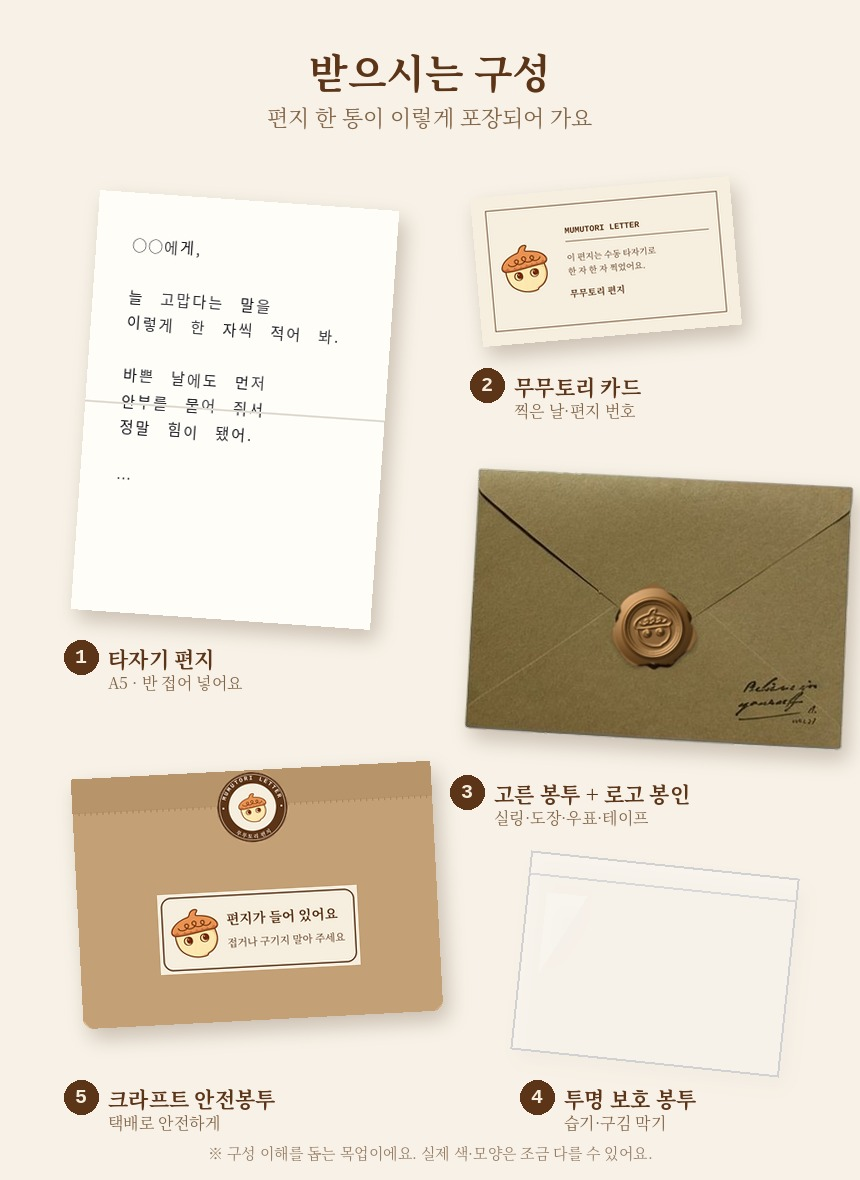
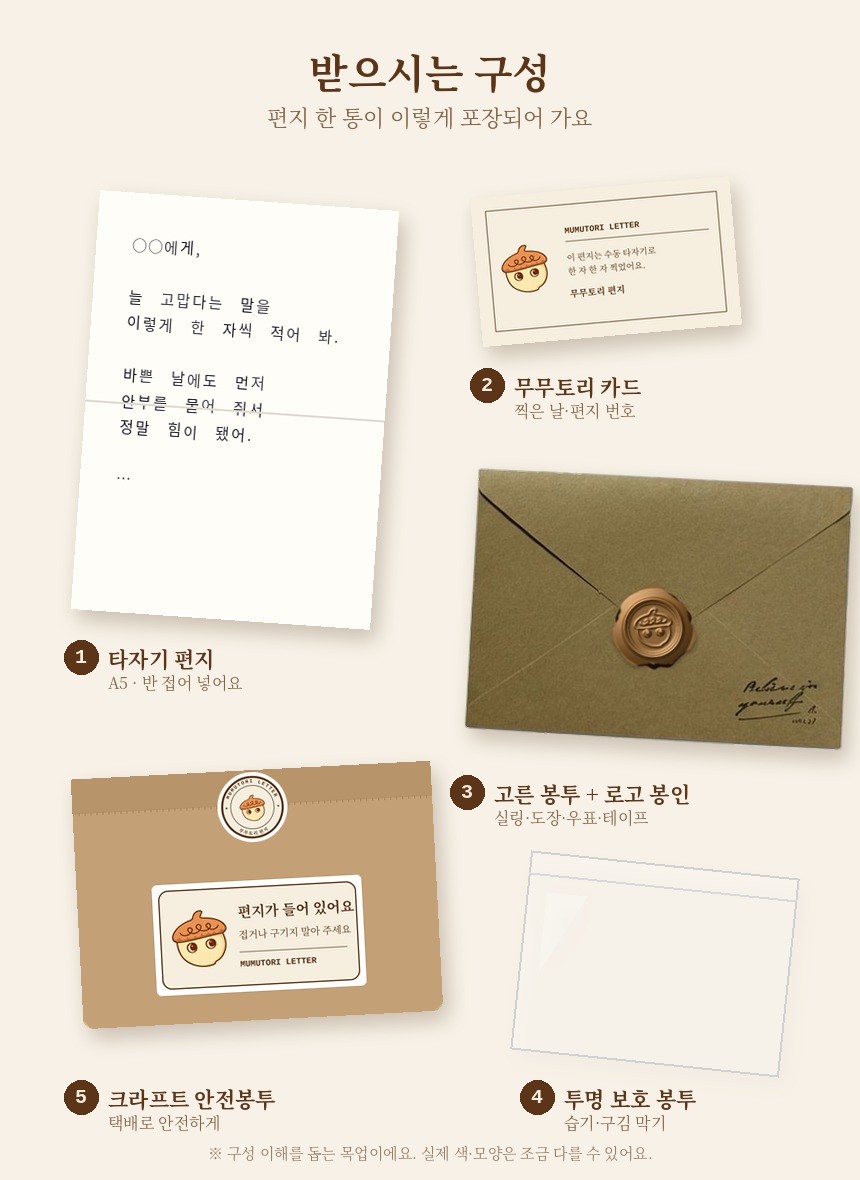
레터 허브 '패키지·구매' 탭 + 봉투 목업 새 그림(에어메일 우표·무늬 원형 라벨·안개꽃)
- index.html: data-s=kit 탭(받으시는 구성·봉투 4종·안개꽃·마끈·로고 제작물·살 것(정리 중)·정할 것), 가격 없음
- mall/img/letter: 에어메일·무늬 목업 교체, 받으시는 구성 새 판, 안개꽃 목업 2장
- img/kit: 로고 제작물 미리보기·A4 배치 3장

Changed region(s): [[0.1512, 0.6407, 0.4233, 0.8542]]

diff --git a/index.html b/index.html
@@ -299,6 +299,21 @@ td.n{font-family:var(--type);color:var(--brand);width:40px}
 }
 .pvopen{display:none;gap:8px;flex-wrap:wrap;justify-content:center}
 @media (prefers-reduced-motion:reduce){.side{transition:none}}
+/* 패키지·구매 탭 (2026-10-20 letter-hub-kit) — 사진 크게, 글 짧게, 휴대폰도 2열 */
+.kit img{display:block;width:100%;height:auto;border-radius:10px;background:#fff}
+.kit .hero2{display:grid;grid-template-columns:minmax(0,1.1fr) minmax(0,1fr);gap:20px;align-items:start}
+.kit ol.layers{margin:0;padding-left:20px;display:flex;flex-direction:column;gap:6px}
+.kit .g2{display:grid;grid-template-columns:repeat(2,minmax(0,1fr));gap:14px}
+.kit .g3{display:grid;grid-template-columns:repeat(3,minmax(0,1fr));gap:14px}
+.kit figure{margin:0;display:flex;flex-direction:column;gap:8px}
+.kit figcaption b{display:block;font-family:var(--type)}
+.kit .chips{display:flex;flex-wrap:wrap;gap:6px}
+.kit .chip{font-size:12px;padding:4px 9px;border-radius:999px;border:1px solid var(--line);background:var(--paper);color:var(--ink-2)}
+.kit .chip.ok{background:var(--cream);color:var(--brand);border-color:transparent}
+.kit table{width:100%;border-collapse:collapse;font-size:13.5px}
+.kit th,.kit td{text-align:left;padding:9px 8px;border-bottom:1px solid var(--line);vertical-align:top}
+.kit th{white-space:nowrap}
+@media (max-width:760px){.kit .hero2{grid-template-columns:1fr}.kit .g3{grid-template-columns:repeat(2,minmax(0,1fr))}.kit .g2,.kit .g3{gap:10px}.kit figcaption{font-size:12.5px}}
 </style>
 </head>
 <body>
@@ -408,6 +423,60 @@ td.n{font-family:var(--type);color:var(--brand);width:40px}
             <span class="small faint" id="pvNote">초안 기준 화면이에요.</span>
           </div>
         </div>
+      </section>
+
+      <!-- 패키지·구매 (2026-10-20 총괄 letter-hub-kit-20261020-1820 · 사장님 18:08 "기존 프로젝트 페이지에 업데이트") -->
+      <section class="sec kit" data-s="kit" data-name="패키지·구매" hidden>
+        <div class="shead"><span class="eyebrow">PACKAGE · BUY</span><h2>편지 한 통의 포장과 살 것</h2>
+          <p class="lead">고객이 받는 구성, 봉투 네 가지, 로고 제작물, 살 것을 한곳에 모았다. 사진은 이해를 돕는 목업이다. 가격·재료비는 이 공개 페이지에 쓰지 않고 볼트 문서에만 둔다.</p></div>
+
+        <div class="shead"><span class="eyebrow">01</span><h2>받으시는 구성</h2></div>
+        <div class="hero2">
+          <img src="mall/img/letter/letter_kit_overview.jpg" alt="받으시는 구성 목업: 타자기 편지, 무무토리 카드, 고른 봉투와 로고 봉인, 투명 보호 봉투, 크라프트 안전봉투" loading="lazy">
+          <div class="panel"><h3>바깥에서 안으로</h3>
+            <ol class="layers"><li>크라프트 안전봉투(택배로 안전하게)</li><li>투명 보호 봉투(습기·구김 막기)</li><li>고른 봉투 + 로고 봉인</li><li>무무토리 카드(찍은 날·편지 번호)</li><li>타자기 편지(A5, 반 접어 넣음)</li></ol>
+            <p class="note">크라프트·아이보리 봉투에는 마끈 리본과 안개꽃 한 줄기를 더한다(10/20 기본 포함 결정).</p></div>
+        </div>
+
+        <div class="shead"><span class="eyebrow">02</span><h2>봉투 네 가지</h2></div>
+        <div class="g2">
+          <figure><img src="mall/img/letter/mock_kraft_logo_seal.jpg" alt="크라프트 봉투에 도토리 실링 목업" loading="lazy"><figcaption><b>크라프트 · 실링왁스</b><span class="chips"><span class="chip">로고 실링 도장</span><span class="chip">왁스 비즈</span><span class="chip ok">마끈·안개꽃</span></span></figcaption></figure>
+          <figure><img src="mall/img/letter/mock_ivory_logo_stamp.jpg" alt="아이보리 봉투에 소인 도장 목업" loading="lazy"><figcaption><b>아이보리 · 도토리 도장</b><span class="chips"><span class="chip">소인 스탬프</span><span class="chip">스탬프 잉크</span><span class="chip ok">마끈·안개꽃</span></span></figcaption></figure>
+          <figure><img src="mall/img/letter/mock_airmail_postage.jpg" alt="에어메일 봉투에 무무토리 우표와 소인 목업" loading="lazy"><figcaption><b>에어메일</b><span class="chips"><span class="chip">우표 스티커(03)</span><span class="chip">소인 스탬프</span></span></figcaption></figure>
+          <figure><img src="mall/img/letter/mock_pattern_tape.jpg" alt="무늬 테이프와 원형 봉인 라벨 목업" loading="lazy"><figcaption><b>무무토리 무늬</b><span class="chips"><span class="chip">원형 봉인 스티커(04)</span><span class="chip">무늬 테이프</span></span></figcaption></figure>
+        </div>
+
+        <div class="shead"><span class="eyebrow">03</span><h2>안개꽃 · 마끈</h2><p class="lead">크라프트와 아이보리 봉투에 기본으로 더한다.</p></div>
+        <div class="g2">
+          <figure><img src="mall/img/letter/mock_kraft_flower.jpg" alt="크라프트 봉투에 마끈과 안개꽃 목업" loading="lazy"><figcaption><b>크라프트</b></figcaption></figure>
+          <figure><img src="mall/img/letter/mock_ivory_flower.jpg" alt="아이보리 봉투에 마끈과 안개꽃 목업" loading="lazy"><figcaption><b>아이보리</b></figcaption></figure>
+        </div>
+
+        <div class="shead"><span class="eyebrow">04</span><h2>로고 제작물</h2></div>
+        <img src="img/kit/kit_logo_items.jpg" alt="로고 제작물 미리보기: 소인 스탬프, 실링 도장, 우표 스티커, 원형 봉인 스티커, 무늬 테이프" loading="lazy">
+        <div class="tbl"><table><thead><tr><th>파일</th><th>무엇</th><th>만드는 방법 · 지금</th></tr></thead><tbody>
+          <tr><th>01</th><td>소인 스탬프 30mm</td><td>업체 주문제작 · <b>이미 있음</b>(다른 곳에서 고른 것)</td></tr>
+          <tr><th>02</th><td>실링 도장 25mm</td><td>업체 주문제작 · <b>이미 있음</b></td></tr>
+          <tr><th>05b</th><td>무늬 마스킹테이프 12mm</td><td>업체 주문제작 · 사장님 직접 주문</td></tr>
+          <tr><th>06</th><td>동봉 카드 90×50 양면</td><td>업체 주문제작(명함)</td></tr>
+          <tr><th>03</th><td>우표 스티커</td><td>직접 출력 · <b>모양 바뀜</b>(우표 톱니 모양 + 우표 펀치) — 정리 중</td></tr>
+          <tr><th>04</th><td>원형 봉인 스티커 30mm</td><td>직접 출력 · 라벨지 바뀜(잉크젯 전용) — 정리 중</td></tr>
+          <tr><th>07</th><td>'편지가 들어 있어요' 스티커</td><td>직접 출력 · 방수 무광 잉크젯 라벨</td></tr>
+        </tbody></table></div>
+        <div class="g3">
+          <figure><img src="img/kit/kit_a4_square25.jpg" alt="A4 배치 미리보기: 정사각 25mm 70칸" loading="lazy"><figcaption>03 · 이전 규격(정사각) 미리보기</figcaption></figure>
+          <figure><img src="img/kit/kit_a4_round30.jpg" alt="A4 배치 미리보기: 원형 30mm 48칸" loading="lazy"><figcaption>04 · 원형 30mm 48칸</figcaption></figure>
+          <figure><img src="img/kit/kit_a4_label64.jpg" alt="A4 배치 미리보기: 64×33.8mm 24칸" loading="lazy"><figcaption>07 · 64×33.8mm 24칸</figcaption></figure>
+        </div>
+        <div class="panel"><h3>직접 출력 3단계</h3>
+          <ol class="layers"><li>라벨스페이스(space.label.kr)에서 라벨지 번호를 고른다</li><li>03·04·07 파일을 넣고 '모든 칸에 적용'</li><li>A4를 '실제 크기'로 인쇄한다(테두리 없음 인쇄는 쓰지 않음)</li></ol></div>
+
+        <div class="shead"><span class="eyebrow">05</span><h2>살 것</h2></div>
+        <div class="panel"><p><b>정리 중</b> — 사장님이 고르는 중이에요(10/20 19:29). 확정 목록이 오면 묶음별로 채운다.</p>
+          <p class="small">이미 있는 것: 크라프트 엽서봉투 · 타자기 용지 · 로고 실링 도장 · 커스텀 스탬프 · 마스킹테이프(사장님 직접 주문)</p></div>
+
+        <div class="shead"><span class="eyebrow">06</span><h2>아직 정할 것</h2></div>
+        <div class="panel"><div class="chips"><span class="chip">에어메일 소인 색</span><span class="chip">무늬 테이프 시점</span><span class="chip">편지지 색</span><span class="chip">아이보리 봉투 종이(레이드지·엠보싱)</span><span class="chip">에어메일 봉투 종류</span></div></div>
       </section>
 
       <!-- 06 접수함 -->
